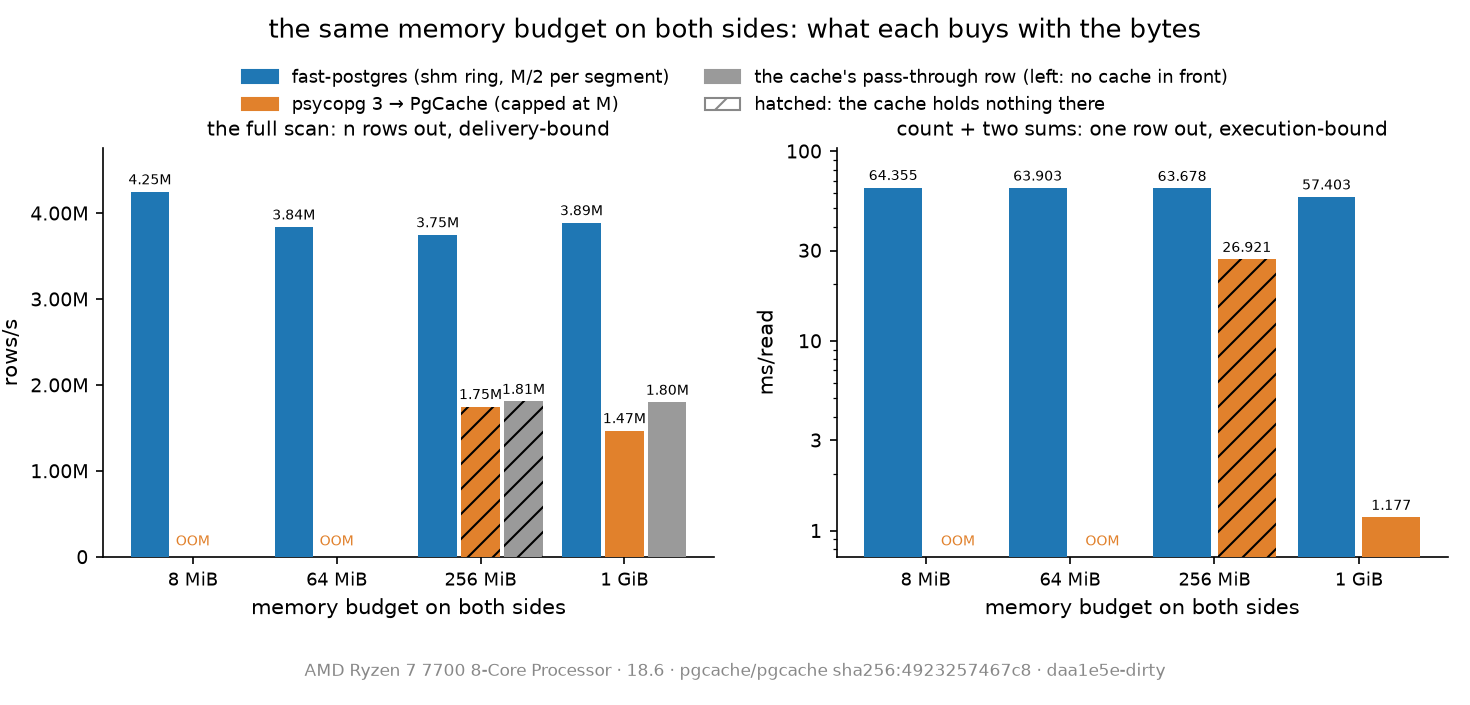
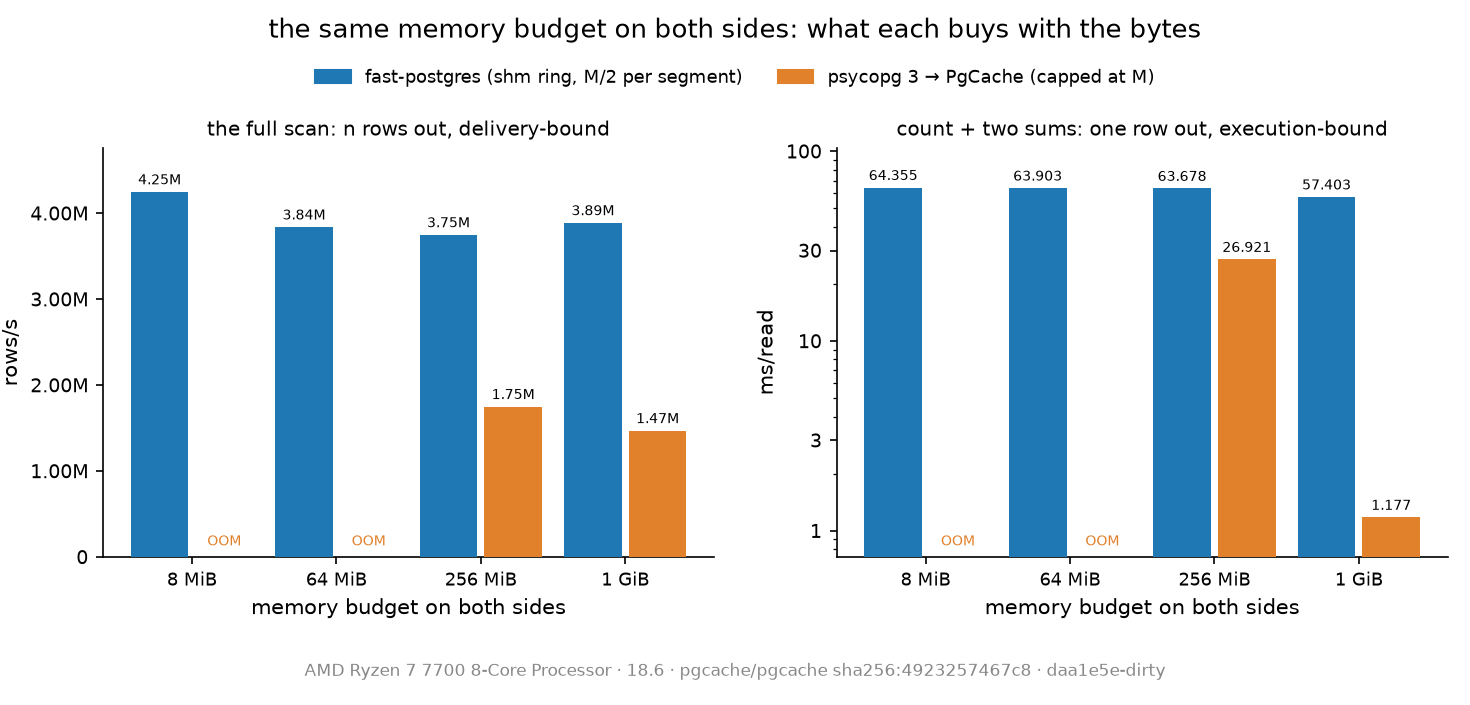
bench: the memory-budget chart drops the grey row and the hatching
Two encodings were carrying more weight than the comparison they sat next to:
the pass-through row (grey bars) and the hatch that marked a budget where the
cache held nothing. The chart is now the two players across the budgets:

- the pass-through series and its legend entry are gone; the workload stays in
  the record, it is just not drawn;
- the hatching and its legend entry are gone - a budget the cache cannot run at
  keeps its `OOM` label, and a budget where it ran but registered nothing is
  drawn as what it is, a plain bar;
- with two series per group the scan panel's bars come up to the aggregate
  panel's width.

No number changed.

diff --git a/bench/charts/cache_budget.py b/bench/charts/cache_budget.py
@@ -12,12 +12,9 @@ because the same number of bytes buys different things:
                                      its budget lets it hold the entry
 
 The budget is the log's own schema: each `# budget M` section runs the ring with
-a transfer segment of M/2 and the cache in a container capped at M. The dashed
-line on the left is the pass-through workload - the same rows through the proxy
-with no cache in front of them - so the cache's line can be read against what
-forwarding alone costs. The shaded budgets are the ones where the cache's own
-evidence says it held nothing (its container was OOM-killed, or nothing was
-registered): on those bytes it is a plain proxy.
+a transfer segment of M/2 and the cache in a container capped at M. Where the
+cache's own evidence says it held nothing (its container was OOM-killed, or
+nothing was registered), its slot in the group carries `OOM` instead of a bar.
 
 Usage:
     just charts cache-budget                        plots the committed log
@@ -46,8 +43,6 @@ FILENAME = "pgcache-memory.png"
 
 ACCENT = "#1f77b4"
 ORANGE = "#e1812c"
-GREY = "#9a9a9a"
-SHADE = "#f0f0f0"
 
 BUDGET_RE = re.compile(r"^# budget ([\d.]+) (KiB|MiB|GiB), segment ")
 # the pgcache cell is "-" at a budget the cache cannot run at: the ring's own
@@ -128,10 +123,10 @@ def fmt_rows(v):
     return f"{v:g}"
 
 
-def bars(ax, budgets, data, series, fmt, empty_budgets, ylabel, log_y=False):
+def bars(ax, budgets, data, series, fmt, oom_budgets, ylabel, log_y=False):
     """One group per budget, one bar per player, labelled with its value.
 
-    The shape is the same in every panel: the budgets on the x axis, so the
+    The shape is the same in both panels: the budgets on the x axis, so the
     question the figure asks (what each side buys with M bytes) is read the way
     a bar chart is read. A bar the cache does not have - its container was
     OOM-killed, or nothing registered - is left out and the slot says why.
@@ -145,19 +140,13 @@ def bars(ax, budgets, data, series, fmt, empty_budgets, ylabel, log_y=False):
         pos = [xs[budgets.index(b)] + (i - (len(series) - 1) / 2) * step for b in present]
         vals = [data[b][workload][player] for b in present]
         drawn = ax.bar(pos, vals, width=width, color=color, zorder=3)
-        for rect, b in zip(drawn, present):
-            # hatched only where the cache ran but held nothing: the ring's bars
-            # are the same read whatever the budget
-            if player == "pgcache" and b in empty_budgets:
-                rect.set_hatch("//")
         handles.append(plt.Rectangle((0, 0), 1, 1, color=color, label=label))
         ax.bar_label(drawn, labels=[fmt(v) for v in vals], fontsize=6.8, padding=2)
-        if player == "pgcache":
-            for b in budgets:
-                if b in empty_budgets and b not in present and i == 1:
-                    ax.annotate("OOM", (xs[budgets.index(b)] + (i - (len(series) - 1) / 2) * step, 0.02),
-                                xycoords=("data", "axes fraction"), ha="center", va="bottom",
-                                fontsize=6.8, color=ORANGE, zorder=4)
+        for b in budgets:
+            if player == "pgcache" and b in oom_budgets and b not in present:
+                ax.annotate("OOM", (xs[budgets.index(b)] + (i - (len(series) - 1) / 2) * step, 0.02),
+                            xycoords=("data", "axes fraction"), ha="center", va="bottom",
+                            fontsize=6.8, color=ORANGE, zorder=4)
 
     ax.set_xticks(xs)
     ax.set_xticklabels([fmt_budget(b) for b in budgets], fontsize=8.5)
@@ -189,7 +178,7 @@ def main():
 
     # the budgets where the cache held nothing at all: its container was
     # OOM-killed, or every workload in that cell reported nothing registered.
-    # A *throttled* cache that still held the query under test is not hatched:
+    # A *throttled* cache that still held the query under test is not marked:
     # the log's evidence lines carry that distinction.
     def empty(b):
         if evidence.get(b, {}).get("down"):
@@ -203,11 +192,8 @@ def main():
     scan_series = (
         ("large", "fastpostgres", ACCENT, "fast-postgres (shm ring, M/2 per segment)"),
         ("large", "pgcache", ORANGE, "psycopg 3 → PgCache (capped at M)"),
-        ("through", "pgcache", GREY, "the cache's pass-through row (left: no cache in front)"),
     )
     handles = bars(ax_scan, budgets, data, scan_series, fmt_rows, empty_budgets, "rows/s")
-    handles.append(plt.Rectangle((0, 0), 1, 1, facecolor="white", edgecolor="#888888",
-                                 hatch="//", label="hatched: the cache holds nothing there"))
     ax_scan.yaxis.set_major_formatter(mticker.FuncFormatter(lambda v, _p=None: fmt_rows(v)))
     ax_scan.set_title("the full scan: n rows out, delivery-bound", fontsize=9.5)
 
